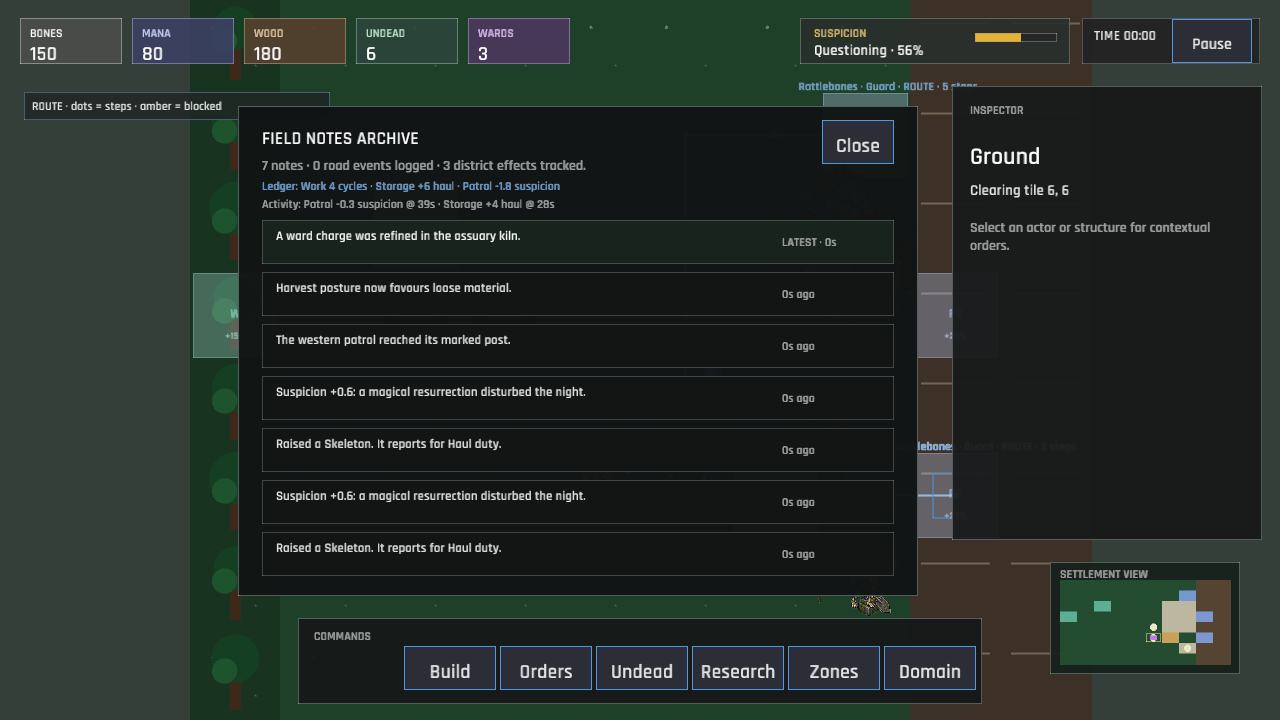
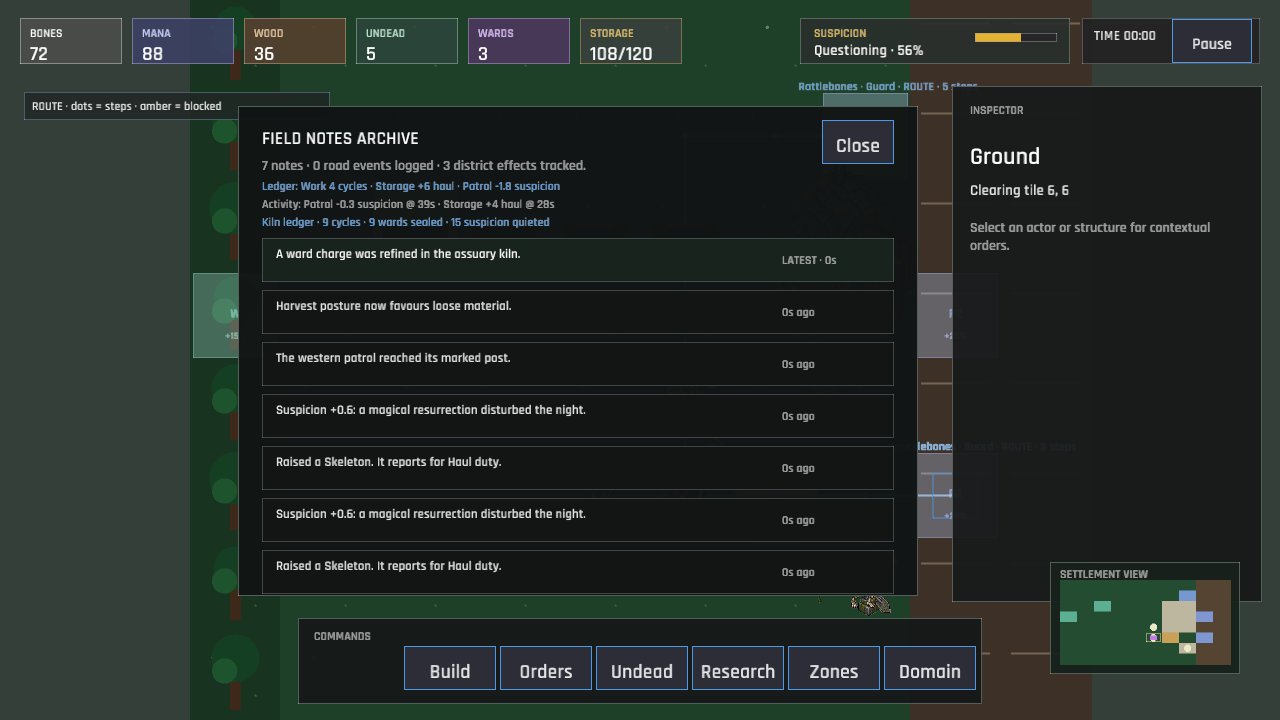
The kiln remembers every seal and every hush it has earned (kiln production ledger, GDD 5.4)
The colony could see a fresh ward charge but had no durable account of what the kiln had done, so the Ward and Hush choices disappeared into the feed. A save-persistent ProductionLedger now records completed cycles, per-recipe counts, wards sealed, and suspicion quieted.

The Field Notes archive surfaces the ledger in desktop and compact layouts, and old saves receive an empty ledger without losing their cemetery. Completion tests cover both recipes and migration; publish completed for Windows and WebGL, with only the known local Project Roost tracking warning.

diff --git a/src/state/production.rs b/src/state/production.rs
@@ -1,0 +1,54 @@
+//! Save-persistent kiln history and recipe outcome totals.
+
+use crate::data::ProductionRecipeKind;
+use serde::{Deserialize, Serialize};
+
+#[derive(Debug, Clone, Default, Serialize, Deserialize)]
+pub struct ProductionLedger {
+    #[serde(default)]
+    pub total_cycles: u32,
+    #[serde(default)]
+    pub ward_cycles: u32,
+    #[serde(default)]
+    pub hush_ash_cycles: u32,
+    #[serde(default)]
+    pub wards_sealed: i32,
+    #[serde(default)]
+    pub suspicion_quieted: f32,
+}
+
+impl ProductionLedger {
+    pub fn record(
+        &mut self,
+        recipe: ProductionRecipeKind,
+        output_amount: i32,
+        suspicion_delta: f32,
+    ) {
+        self.total_cycles = self.total_cycles.saturating_add(1);
+        match recipe {
+            ProductionRecipeKind::WardCharge => {
+                self.ward_cycles = self.ward_cycles.saturating_add(1);
+            }
+            ProductionRecipeKind::HushAsh => {
+                self.hush_ash_cycles = self.hush_ash_cycles.saturating_add(1);
+            }
+        }
+        self.wards_sealed = self.wards_sealed.saturating_add(output_amount.max(0));
+        if suspicion_delta < 0.0 {
+            self.suspicion_quieted += -suspicion_delta;
+        }
+    }
+
+    pub fn summary(&self) -> String {
+        if self.total_cycles == 0 {
+            return "Kiln ledger · no cycles sealed yet.".to_owned();
+        }
+        format!(
+            "Kiln ledger · {} cycles · {} wards sealed · {:.0} suspicion quieted",
+            self.total_cycles, self.wards_sealed, self.suspicion_quieted
+        )
+    }
+}
+
+#[cfg(test)]
+mod tests;

diff --git a/src/state.rs b/src/state.rs
@@ -9,6 +9,7 @@ use serde_json::Value;
 mod building_upgrades;
 mod economy;
 mod market;
+mod production;
 mod research;
 mod route_policy;
 mod stewardship;
@@ -19,6 +20,7 @@ pub use economy::EconomyState;
 pub use market::{
     MarketContract, MarketState, MARKET_CONTRACT_BONUS_FAVOR, MARKET_CONTRACT_SECONDS,
 };
+pub use production::ProductionLedger;
 pub use research::ResearchState;
 pub use route_policy::{DistrictRoutePolicies, RoutePolicy};
 pub use stewardship::StewardshipPolicy;
@@ -428,6 +430,8 @@ pub struct ProgressState {
     #[serde(default)]
     pub production_recipe: ProductionRecipeKind,
     #[serde(default)]
+    pub production_ledger: ProductionLedger,
+    #[serde(default)]
     pub building_upgrades: BuildingUpgrades,
     #[serde(default)]
     pub district_ledger: DistrictLedger,
@@ -600,6 +604,7 @@ impl GameSession {
                 production: None,
                 production_queue: 0,
                 production_recipe: ProductionRecipeKind::default(),
+                production_ledger: ProductionLedger::default(),
                 building_upgrades: BuildingUpgrades::default(),
                 district_ledger: DistrictLedger::default(),
                 market: MarketState::default(),

diff --git a/src/game/capture.rs b/src/game/capture.rs
@@ -7,8 +7,8 @@ use crate::data::SuspicionStage;
 use crate::engine::corpses;
 use crate::state::{
     BuildingKind, DistrictActivity, DistrictActivityKind, GamePhase, GameSession, JobKind,
-    ProductionOrder, ProductionRecipeKind, RoutePolicy, Selection, StewardshipPolicy, Technology,
-    UndeadKind, WorkerStatus, WorldState, Zone, ZoneKind,
+    ProductionLedger, ProductionOrder, ProductionRecipeKind, RoutePolicy, Selection,
+    StewardshipPolicy, Technology, UndeadKind, WorkerStatus, WorldState, Zone, ZoneKind,
 };
 use crate::ui::{self, DomainOverlays, Panel};
 use macroquad::prelude::*;
@@ -619,6 +619,13 @@ impl Game {
     fn prepare_capture_notes(&mut self) {
         self.prepare_capture_domain();
         self.panel = Panel::Feed;
+        self.session.progress.production_ledger = ProductionLedger {
+            total_cycles: 9,
+            ward_cycles: 6,
+            hush_ash_cycles: 3,
+            wards_sealed: 9,
+            suspicion_quieted: 15.0,
+        };
         for message in [
             "The western patrol reached its marked post.",
             "Harvest posture now favours loose material.",

diff --git a/src/ui/responsive/panels.rs b/src/ui/responsive/panels.rs
@@ -596,13 +596,22 @@ fn draw_compact_feed_panel(
     sheet: Rect,
 ) {
     compact_panel_title("FIELD NOTES", sheet);
+    let kiln = &ctx.session.progress.production_ledger;
+    let kiln_summary = format!(
+        "Kiln {}c · W+{} · S-{:.0}",
+        kiln.total_cycles, kiln.wards_sealed, kiln.suspicion_quieted
+    );
     let ledger = if sheet.w >= 520.0 {
-        districts::ledger_summary(ctx.session)
+        format!(
+            "{} · {}",
+            districts::ledger_summary(ctx.session),
+            kiln_summary
+        )
     } else {
         let ledger = &ctx.session.progress.district_ledger;
         format!(
-            "Ledger W{} · S+{} · P-{:.1}",
-            ledger.work_cycles, ledger.storage_bonus_items, ledger.patrol_quieting
+            "Ledger W{} · S+{} · P-{:.1} · {}",
+            ledger.work_cycles, ledger.storage_bonus_items, ledger.patrol_quieting, kiln_summary
         )
     };
     draw_text_block(

diff --git a/src/ui/panels.rs b/src/ui/panels.rs
@@ -318,6 +318,16 @@ fn draw_feed_history_panel(ctx: &UiContext<'_>, pointer: Pointer, actions: &mut 
         0.0,
         dark::TEXT_DIM,
     );
+    draw_text_block(
+        &ctx.session.progress.production_ledger.summary(),
+        rect.x + 24.0,
+        rect.y + 108.0,
+        rect.w - 48.0,
+        16.0,
+        11.0,
+        0.0,
+        dark::ACCENT,
+    );
     if virtual_button(
         Rect::new(rect.right() - 96.0, rect.y + 14.0, 72.0, 44.0),
         "Close",
@@ -330,7 +340,7 @@ fn draw_feed_history_panel(ctx: &UiContext<'_>, pointer: Pointer, actions: &mut 
     for (index, entry) in ctx.session.pressure.feed.iter().take(7).enumerate() {
         let row = Rect::new(
             rect.x + 24.0,
-            rect.y + 114.0 + index as f32 * 52.0,
+            rect.y + 132.0 + index as f32 * 52.0,
             632.0,
             44.0,
         );

diff --git a/src/state/production/tests.rs b/src/state/production/tests.rs
@@ -1,0 +1,23 @@
+use super::*;
+
+#[test]
+fn an_empty_ledger_explains_that_no_cycles_have_finished() {
+    assert_eq!(
+        ProductionLedger::default().summary(),
+        "Kiln ledger · no cycles sealed yet."
+    );
+}
+
+#[test]
+fn the_ledger_separates_recipe_counts_and_accumulates_quieting() {
+    let mut ledger = ProductionLedger::default();
+    ledger.record(ProductionRecipeKind::WardCharge, 1, 0.0);
+    ledger.record(ProductionRecipeKind::HushAsh, 1, -5.0);
+
+    assert_eq!(ledger.total_cycles, 2);
+    assert_eq!(ledger.ward_cycles, 1);
+    assert_eq!(ledger.hush_ash_cycles, 1);
+    assert_eq!(ledger.wards_sealed, 2);
+    assert_eq!(ledger.suspicion_quieted, 5.0);
+    assert!(ledger.summary().contains("2 cycles"));
+}

diff --git a/src/state/tests.rs b/src/state/tests.rs
@@ -300,6 +300,11 @@ fn older_saves_without_a_kiln_recipe_default_to_ward_charge() {
         .and_then(serde_json::Value::as_object_mut)
         .expect("progress object")
         .remove("production_recipe");
+    value
+        .get_mut("progress")
+        .and_then(serde_json::Value::as_object_mut)
+        .expect("progress object")
+        .remove("production_ledger");
 
     let migrated = migrate_save_value(None, value, &data.config).unwrap();
 
@@ -307,6 +312,7 @@ fn older_saves_without_a_kiln_recipe_default_to_ward_charge() {
         migrated.progress.production_recipe,
         ProductionRecipeKind::WardCharge
     );
+    assert_eq!(migrated.progress.production_ledger.total_cycles, 0);
 }
 
 #[test]

diff --git a/src/engine/progression.rs b/src/engine/progression.rs
@@ -436,6 +436,11 @@ pub fn advance_production(session: &mut GameSession, data: &GameData, dt: f32) -
         return None;
     }
     session.economy.ward_charges += recipe.output_amount;
+    session.progress.production_ledger.record(
+        order.recipe,
+        recipe.output_amount,
+        recipe.suspicion_delta,
+    );
     if recipe.suspicion_delta < 0.0 {
         suspicion::adjust_quiet(session, recipe.suspicion_delta, "a hush ash kiln cycle");
     } else if recipe.suspicion_delta > 0.0 {

diff --git a/src/engine/progression/tests.rs b/src/engine/progression/tests.rs
@@ -211,6 +211,9 @@ fn hush_ash_can_be_selected_and_quiets_suspicion_on_completion() {
 
     assert_eq!(session.economy.ward_charges, 1);
     assert_eq!(session.pressure.suspicion, 19.0);
+    assert_eq!(session.progress.production_ledger.total_cycles, 1);
+    assert_eq!(session.progress.production_ledger.hush_ash_cycles, 1);
+    assert_eq!(session.progress.production_ledger.suspicion_quieted, 5.0);
     assert!(session.pressure.feed[0].message.contains("Hush Ash"));
 }
 

diff --git a/gdd.md b/gdd.md
@@ -215,6 +215,10 @@ production run. A reserved follow-up cycle can be cancelled from the kiln
 inspector; its selected recipe materials return immediately while the active
 cycle keeps its progress.
 
+Completed cycles are written into a save-persistent kiln ledger. Field Notes
+can show total cycles, ward charges sealed, and the suspicion quieted by Hush
+Ash, giving the player a durable record of how the kiln has shaped the colony.
+
 If the first cycle is requested before its full recipe is in storage, the kiln
 keeps the request open and records each missing input. The existing stock is
 committed immediately, while Haul workers can carry later bones or wood from
